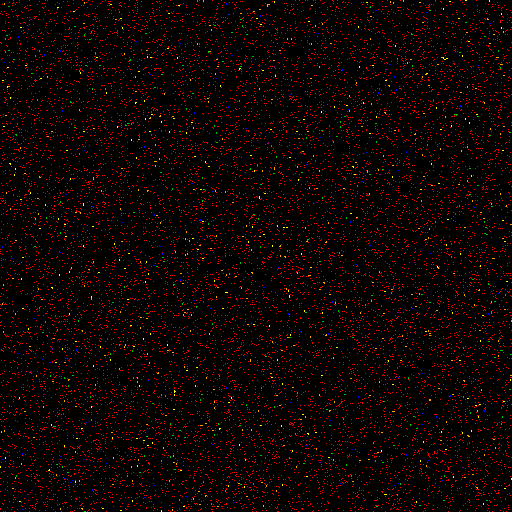
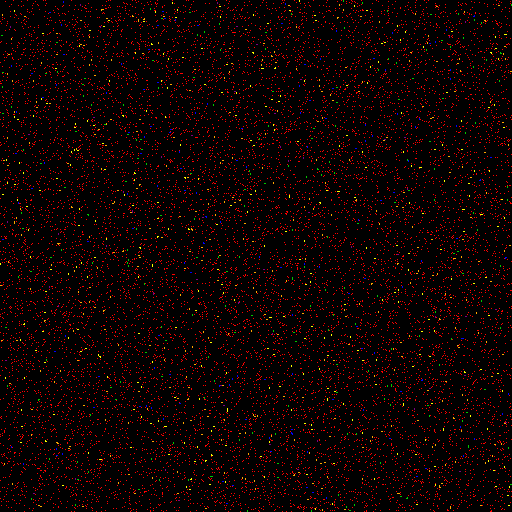
visor: dot-fields (quick36, pi)
Written by an agent and not yet reviewed.
agent exit: 0   tests before: exit 127   tests after: exit 127

diff --git a/run_tests.py b/run_tests.py
@@ -238,10 +238,6 @@ class TestGeneration(unittest.TestCase):
         # neighbour also become orange.
         for x in range(6):
             p = df.get_pixel(x, 0)
-            if p not in [RED, ORANGE]:
-                import sys
-                print(f"DEBUG pixel {x}: p={p}, RED={RED}, ORANGE={ORANGE}", file=sys.stderr)
-                print(f"DEBUG df.grid id={id(df.grid)}", file=sys.stderr)
             self.assertIn(p, [RED, ORANGE], f"pixel {x} has state {p}")
 
 
@@ -315,17 +311,18 @@ class TestSavePng(unittest.TestCase):
         # Read back raw pixel data.
         with open(path, "rb") as f:
             f.read(8)  # PNG signature
-            f.read(4)  # IHDR length
+            ihdr_len = struct.unpack(">I", f.read(4))[0]  # IHDR length
             f.read(4)  # IHDR type ("IHDR")
-            f.read(13)  # IHDR data
+            f.read(ihdr_len)  # IHDR data
             f.read(4)  # IHDR CRC
-            idat_len = struct.unpack(">I", f.read(4))[0]
+            idat_len = struct.unpack(">I", f.read(4))[0]  # IDAT length
+            f.read(4)  # IDAT type ("IDAT")
             compressed = f.read(idat_len)
             raw = zlib_decompress(compressed)
         # The purple pixel is at grid[10][20].
         # Each row: 1 filter byte + width * 3 bytes.
-        row_offset = 1 * (64 * 3 + 1) + 10 * (64 * 3 + 1)  # line 10 start
-        px_offset = row_offset + 20 * 3  # column 20
+        row_offset = 10 * (64 * 3 + 1)  # line 10 start (filter byte)
+        px_offset = row_offset + 1 + 20 * 3  # skip filter byte, then column offset
         r, g, b = raw[px_offset], raw[px_offset + 1], raw[px_offset + 2]
         self.assertEqual((r, g, b), PURPLE)
         path.unlink()
